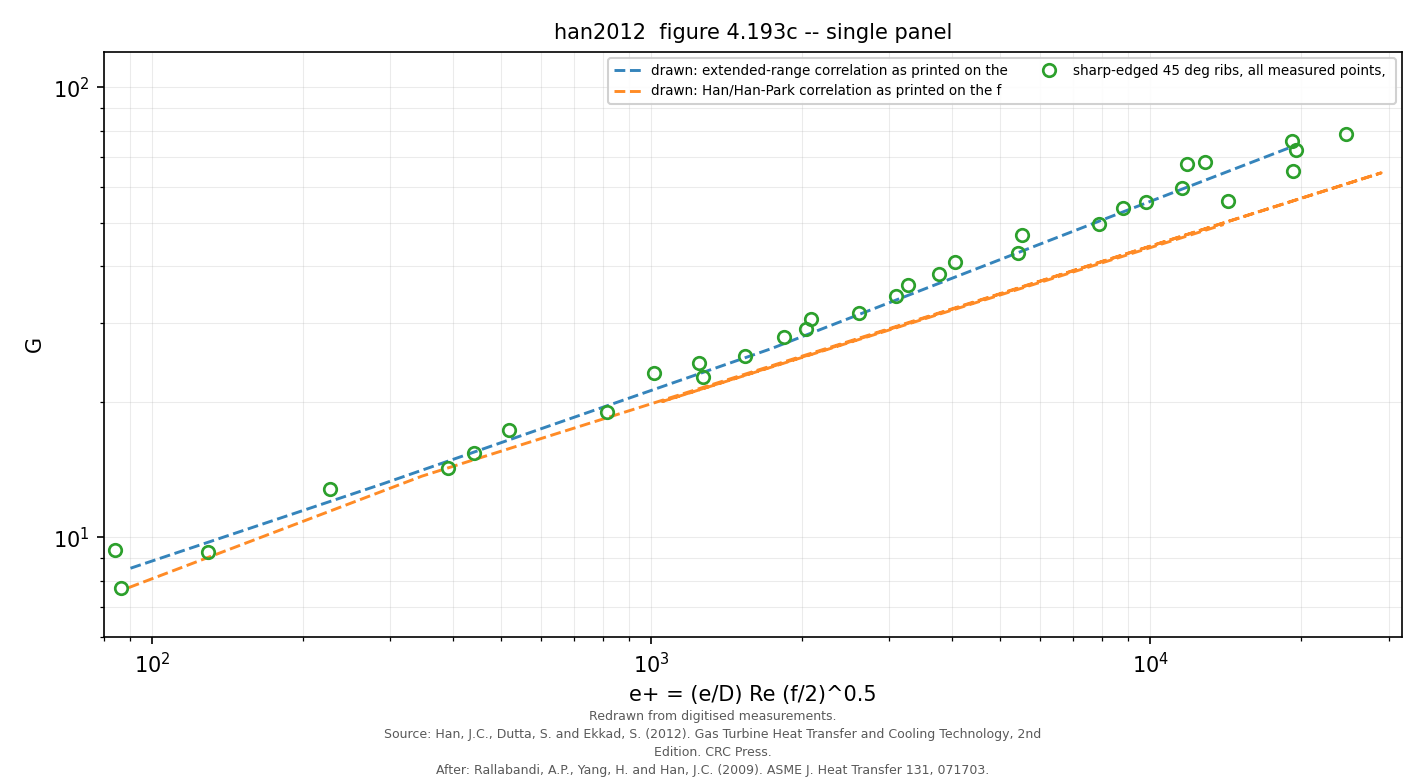
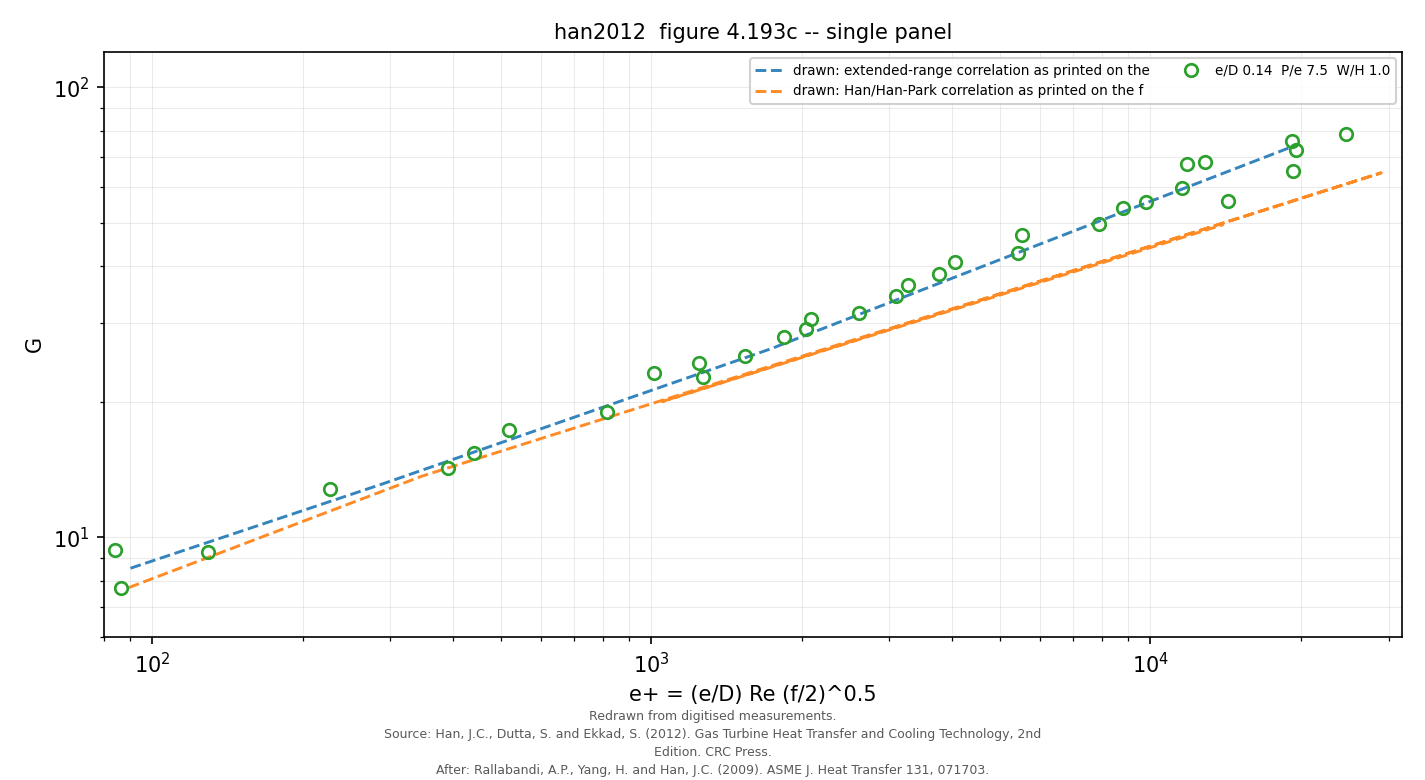
feat(cooling): implement rallabandi_2009_high_re, a second rib correlation set (#373)
Closes the last item on #334's actual remaining scope: the two other items
(GUI wiring, the two broken examples) turned out to already be done, in
#350 and #353 respectively -- the issue's own tracking comment was four
days stale, corrected on #334 and #339 before this work started.

rallabandi_2009_high_re() follows han_1988_orthogonal's exact structure:
same RibCorrelationSet fields, same evaluate_rib chain, same smooth
guards. It covers a genuinely different regime -- 45 deg sharp-edged ribs,
Re 30,000-400,000, an order of magnitude above han_1988_orthogonal's
10,000-60,000 -- selected explicitly, never blended, per the confirmed
extraction and the project's decision (#334) that users pick and define
correlations themselves, with provenance and validity visible, rather
than have the tool auto-switch on their behalf.

Scored against real data, not just hand-computed reference points: the
38-point unclassified cloud digitised from figure 4.193c (already filed
for #333) gives mean bias -2.8%, RMS 7.0%, independently reproducing the
extraction document's own comparison (0.994 mean, 6.9% RMS) through a
completely different computational path -- the full Re -> R -> f -> e+ ->
G chain via evaluate_rib, bisected to reach each digitised e+, rather than
the direct G(e+) evaluation the extraction doc used. Along the way,
corrected two stale scores fields on that figure's drawn correlation
lines (both were scored against han_1988_orthogonal and always silently
[…]

Changed region(s): [[0.4323, 0.0615, 0.9572, 0.1231]]

diff --git a/tests/test_rib_correlation.cpp b/tests/test_rib_correlation.cpp
@@ -7,6 +7,7 @@
 
 using combaero::cooling::evaluate_rib;
 using combaero::cooling::han_1988_orthogonal;
+using combaero::cooling::rallabandi_2009_high_re;
 using combaero::cooling::RibCorrelationSet;
 using combaero::cooling::RibGeometry;
 using combaero::cooling::validate_rib_set;
@@ -19,6 +20,15 @@ RibGeometry ref_geometry() {
   g.p_e = 10.0;
   g.W_H = 1.0;
   g.alpha_deg = 90.0;
+  return g;
+}
+
+RibGeometry rallabandi_ref_geometry() {
+  RibGeometry g;
+  g.e_D = 0.1;
+  g.p_e = 10.0;
+  g.W_H = 1.0;
+  g.alpha_deg = 45.0;
   return g;
 }
 
@@ -139,6 +149,106 @@ TEST(RibCorrelationTest, MalformedSetsAreRejected) {
   auto negative = han_1988_orthogonal();
   negative.C_R = -1.0;
   EXPECT_THROW(validate_rib_set(negative), std::invalid_argument);
+}
+
+// The numbers below are hand-computed from Eq. (17)/(18) as printed in
+// Rallabandi, Yang and Han (2009), independently of this implementation --
+// see validation/cooling/extractions/han_ribbed_high_re.md. R carries no e+
+// term here either, so it repeats across Re exactly as for han_1988_orthogonal.
+TEST(RibCorrelationTest, ReproducesTheConfirmedRallabandiExtraction) {
+  const auto set = rallabandi_2009_high_re();
+  const auto g = rallabandi_ref_geometry();
+
+  const auto lo = evaluate_rib(set, g, 30000.0);
+  EXPECT_NEAR(lo.R, 4.00939, 1e-4);
+  EXPECT_NEAR(lo.f, 0.06533, 1e-4);
+  EXPECT_NEAR(lo.e_plus, 542.20, 0.1);
+  EXPECT_NEAR(lo.G, 16.1350, 0.01);
+  EXPECT_NEAR(lo.St_r, 0.010235, 1e-5);
+
+  const auto hi = evaluate_rib(set, g, 400000.0);
+  EXPECT_NEAR(hi.e_plus, 7229.37, 0.1);
+  EXPECT_NEAR(hi.G, 47.8899, 0.01);
+  EXPECT_NEAR(hi.St_r, 0.003658, 1e-5);
+}
+
+// han_1988_orthogonal (90 deg) and rallabandi_2009_high_re (45 deg, sharp
+// ribs) are different papers a caller must choose between explicitly. Their
+// Reynolds-number bands actually OVERLAP (10e3-60e3 vs 30e3-400e3, sharing
+// 30e3-60e3) -- Re alone does not distinguish them, which is exactly why
+// there is no auto-switching on Re. What is genuinely disjoint is alpha and
+// e/D, confirmed here so a future edit cannot silently narrow either band
+// into the other's territory without this test noticing.
+TEST(RibCorrelationTest, TheTwoSetsDoNotOverlapInAlphaOrEd) {
+  const auto han = han_1988_orthogonal();
+  const auto rallabandi = rallabandi_2009_high_re();
+
+  EXPECT_EQ(han.valid_alpha.lo, 90.0);
+  EXPECT_EQ(han.valid_alpha.hi, 90.0);
+  EXPECT_EQ(rallabandi.valid_alpha.lo, 45.0);
+  EXPECT_EQ(rallabandi.valid_alpha.hi, 45.0);
+
+  // Rallabandi's study was a square channel only.
+  EXPECT_EQ(rallabandi.valid_WH.lo, 1.0);
+  EXPECT_EQ(rallabandi.valid_WH.hi, 1.0);
+
+  // e/D bands do not overlap: Han's is small ribs, Rallabandi's is large.
+  EXPECT_LT(han.valid_eD.hi, rallabandi.valid_eD.lo);
+
+  // Their Re bands DO overlap -- recorded as a fact, not a defect. See the
+  // comment above: this is why the two sets are named and chosen, not
+  // switched on Reynolds number.
+  EXPECT_GT(han.valid_Re.hi, rallabandi.valid_Re.lo);
+}
+
+// Reversing the flow must not change the magnitude, same reasoning as the
+// 90 deg set: a 45 deg parallel rib reversed is its mirror image.
+TEST(RibCorrelationTest, RallabandiReverseFlowIsSymmetricInMagnitude) {
+  const auto set = rallabandi_2009_high_re();
+  const auto g = rallabandi_ref_geometry();
+  const auto fwd = evaluate_rib(set, g, 100000.0);
+  const auto rev = evaluate_rib(set, g, -100000.0);
+
+  EXPECT_NEAR(fwd.G, rev.G, 1e-9);
+  EXPECT_NEAR(fwd.St_r, rev.St_r, 1e-9);
+  EXPECT_NEAR(fwd.e_plus, -rev.e_plus, 1e-6);
+}
+
+// Same guard discipline as the 90 deg set: every state a solver can probe
+// must return finite, positive numbers, never NaN or a complex result.
+TEST(RibCorrelationTest, RallabandiGuardsHoldForStatesTheSolverActuallyProbes) {
+  const auto set = rallabandi_2009_high_re();
+  const auto g = rallabandi_ref_geometry();
+  for (double Re : {-1e6, -1e4, -1.0, 0.0, 1e-12, 1.0, 1e8}) {
+    const auto r = evaluate_rib(set, g, Re);
+    EXPECT_TRUE(std::isfinite(r.f)) << "Re = " << Re;
+    EXPECT_TRUE(std::isfinite(r.G)) << "Re = " << Re;
+    EXPECT_TRUE(std::isfinite(r.St_r)) << "Re = " << Re;
+    EXPECT_TRUE(std::isfinite(r.dSt_dRe)) << "Re = " << Re;
+    EXPECT_GT(r.f, 0.0) << "Re = " << Re;
+    EXPECT_GT(r.St_r, 0.0) << "Re = " << Re;
+  }
+}
+
+// The analytic Stanton derivative must match a central difference through
+// this set's own guards too -- not assumed to inherit correctness from the
+// shared evaluate_rib code path just because han_1988_orthogonal's does.
+TEST(RibCorrelationTest, RallabandiStantonDerivativeMatchesCentralDifferences) {
+  const auto set = rallabandi_2009_high_re();
+  const auto g = rallabandi_ref_geometry();
+  for (double Re : {200000.0, 50000.0, 100.0, 10.0}) {
+    const double h = std::max(1e-6, std::abs(Re) * 1e-6);
+    const double fd = (evaluate_rib(set, g, Re + h).St_r -
+                       evaluate_rib(set, g, Re - h).St_r) /
+                      (2.0 * h);
+    const double analytic = evaluate_rib(set, g, Re).dSt_dRe;
+    const double scale = std::max({std::abs(fd), std::abs(analytic), 1e-14});
+    EXPECT_LT(std::abs(analytic - fd) / scale, 1e-5) << "Re = " << Re;
+  }
+}
+
+TEST(RibCorrelationTest, RallabandiSetPassesValidation) {
+  EXPECT_NO_THROW(validate_rib_set(rallabandi_2009_high_re()));
 }
 
 // The normaliser is data, not a convention: the same correlation written

diff --git a/src/rib_correlation.cpp b/src/rib_correlation.cpp
@@ -40,6 +40,65 @@ RibCorrelationSet han_1988_orthogonal() {
   return s;
 }
 
+RibCorrelationSet rallabandi_2009_high_re() {
+  RibCorrelationSet s;
+  s.name = "rallabandi_2009_high_re";
+  s.source = "Rallabandi, A.P., Yang, H. and Han, J.-C. (2009). ASME J. Heat "
+             "Transfer 131(7), 071703. Eq. (17)/(18)";
+  s.validity_source = s.source;
+  s.provenance = RibProvenance::Extracted;
+  // 45 deg square/sharp-edged ribs, same family as Han and Park's angled
+  // ribs: reversing the flow gives the mirror image, same magnitude in a
+  // symmetric duct. Not orthogonal (unlike han_1988_orthogonal), but still
+  // symmetric -- see the case A/B/C reverse-flow discussion on #334.
+  s.symmetric = true;
+
+  // R = 1.13 (e/D)^-0.17 (p/e)^0.38. Raw e/D and p/e, no /10 normaliser --
+  // unlike han_1988_orthogonal's R_pe, which divides by 10 because that is
+  // how Han's Eq. 4.16 is printed. Two different papers, two different
+  // normalisations; carrying han_1988_orthogonal's convention here would be
+  // silently wrong by (p/e)^0.38 evaluated at the wrong reference.
+  s.C_R = 1.13;
+  s.R_eD = {-0.17, 1.0};
+  s.R_pe = {0.38, 1.0};
+
+  // G = 1.24 (e/D)^0.014 (p/e)^-0.02 (e+)^0.42. The exponents on e/D and p/e
+  // are the resolved reading (extraction item 31): the textbook reprint at
+  // Fig. 4.193c prints 0.14 for the e/D exponent, a lost decimal place
+  // against the paper's own 0.014, worth 22% in G. Confirmed against the
+  // paper directly, not the reprint -- see han_ribbed_high_re.md, D4.
+  s.C_G = 1.24;
+  s.G_eD = {0.014, 1.0};
+  s.G_pe = {-0.02, 1.0};
+  s.G_eplus_exponent = 0.42;
+
+  s.valid_Re = {30000.0, 400000.0};
+  s.valid_eD = {0.1, 0.18};
+  s.valid_pe = {5.0, 10.0};
+  // Square channel only (W/H = 1) and 45 deg ribs only: both are how the
+  // source's own experiments were run, not modelling choices, so they are
+  // recorded as point ranges the same way han_1988_orthogonal pins alpha.
+  s.valid_WH = {1.0, 1.0};
+  s.valid_alpha = {45.0, 45.0};
+  // Derived, not separately stated: the e+ reached at the corners of the
+  // Re x e/D x p/e validity box above, through this set's own R -> f -> e+
+  // chain. The source's item-8 anchor (e+ = 18,000 at Re = 400K, e/D = 0.18)
+  // falls inside this box; it does not fix p/e, which this box does span.
+  s.valid_eplus = {542.0, 25340.0};
+  s.valid_Pr = 0.7;  // unchanged from Han; the source does not restate it
+
+  // accuracy_G is NOT an author-stated band, unlike han_1988_orthogonal's
+  // (Han's own "95% within X%" claims). Rallabandi et al. state no percentage
+  // accuracy for Eq. (18) in the extracted text. This is the RMS this
+  // project measured, of Eq. (18) itself against 38 digitised points from
+  // Fig. 4.193c (validation/cooling/data/han2012/fig4.193c_G_scatter.csv):
+  // mean pred/data 0.994, RMS 6.9% -- see han_ribbed_high_re.md, items 27-31.
+  // accuracy_R is left at 0 (unstated): no R data was digitised for this
+  // range, so there is nothing to measure it against.
+  s.accuracy_G = 0.069;
+  return s;
+}
+
 namespace {
 
 void require_positive_reference(const RibTerm &t, const std::string &field) {

diff --git a/include/rib_correlation.h b/include/rib_correlation.h
@@ -98,6 +98,22 @@ struct RibCorrelationSet {
 // validation/cooling/extractions/han_ribbed.md.
 RibCorrelationSet han_1988_orthogonal();
 
+// Rallabandi, A.P., Yang, H. and Han, J.-C. (2009), ASME J. Heat Transfer
+// 131(7), 071703, for 45 deg square/sharp-edged ribs in a square channel at
+// Reynolds numbers an order of magnitude above han_1988_orthogonal's range --
+// "typical of land-based turbines" per the source. A separate regime, not a
+// revision: different experiments, and per the source the correlations do
+// not agree with Han's in the extended range. Selected explicitly, never
+// blended -- see validation/cooling/extractions/han_ribbed_high_re.md.
+//
+// Sharp-edged ribs only. The source reports round-edged ribs at the same
+// conditions instead following Han's correlation, but "coincidentally" --
+// its own word, meaning reported as fortuitous rather than physically
+// grounded, so it is not encoded as a switch here. A caller with round-edged
+// ribs above this Reynolds range chooses the correlation directly, same as
+// any other set choice.
+RibCorrelationSet rallabandi_2009_high_re();
+
 // Geometry of the ribbed channel, as the correlation sees it.
 struct RibGeometry {
   double e_D = 0.0;        // rib height / hydraulic diameter

diff --git a/python/tests/test_cooling_validation.py b/python/tests/test_cooling_validation.py
@@ -78,8 +78,25 @@ def test_45deg_series_is_refused_not_scored(dataset) -> None:
 
     Scoring it produced a 26.7% bias that reads as model error when it is
     really the wrong correlation entirely. The refusal is the feature.
+
+    Built from a synthetic series (dataclasses.replace on a real one) rather
+    than pinned to a specific filed CSV: which series happen to carry
+    scores=han_1988_orthogonal at alpha=45 is metadata, and changes as
+    understanding improves -- fig4.193c_old_correlation_G_curve was scored
+    against han_1988_orthogonal via this exact refusal path once, then
+    re-labelled scores=null once a better reason (drawn line, no
+    angled-correlation set yet) was found. The mechanism under test should
+    not depend on any one series still holding that combination.
     """
-    recs = run_series(_series(dataset, "fig4.193c_old_correlation_G_curve"))
+    import dataclasses
+
+    series_45 = dataclasses.replace(
+        next(s for s in dataset if s.y_axis == "G"),
+        alpha_deg=45.0,
+        scores="han_1988_orthogonal",
+        geometry=None,
+    )
+    recs = run_series(series_45)
     assert all(r.predicted is None for r in recs)
     assert all("90-90 deg only" in (r.reason or "") for r in recs)
 

diff --git a/python/combaero/_core.cpp b/python/combaero/_core.cpp
@@ -152,6 +152,10 @@ PYBIND11_MODULE(_core, m) {
   m.def("han_1988_orthogonal", &combaero::cooling::han_1988_orthogonal,
         "Han (1988) 90 deg orthogonal ribs. Extracted and confirmed; see "
         "validation/cooling/extractions/han_ribbed.md.");
+  m.def("rallabandi_2009_high_re", &combaero::cooling::rallabandi_2009_high_re,
+        "Rallabandi, Yang and Han (2009) 45 deg sharp-edged ribs at high "
+        "Reynolds number. Extracted and confirmed; see "
+        "validation/cooling/extractions/han_ribbed_high_re.md.");
   m.def("validate_rib_set", &combaero::cooling::validate_rib_set,
         py::arg("correlation_set"),
         "Reject a set that cannot be evaluated. Hard errors, unlike the "

diff --git a/include/units_data.h b/include/units_data.h
@@ -111,6 +111,7 @@ inline constexpr Entry function_units[] = {
     // rib_correlation.h - Parametrised rib correlations
     // -------------------------------------------------------------------------
     {"han_1988_orthogonal", "-", "RibCorrelationSet"},
+    {"rallabandi_2009_high_re", "-", "RibCorrelationSet"},
     {"validate_rib_set", "correlation_set: RibCorrelationSet", "None"},
     {"evaluate_rib",
      "correlation_set: RibCorrelationSet, geometry: RibGeometry, Re: -",

diff --git a/python/combaero/__init__.py b/python/combaero/__init__.py
@@ -44,6 +44,7 @@ try:
         RibTerm,
         evaluate_rib,
         han_1988_orthogonal,
+        rallabandi_2009_high_re,
         validate_rib_set,
         AcousticMedium,
         AcousticMode,
@@ -828,6 +829,7 @@ __all__ = [
     "RibTerm",
     "evaluate_rib",
     "han_1988_orthogonal",
+    "rallabandi_2009_high_re",
     "validate_rib_set",
     "FlowSolution",
     "compressible",

diff --git a/validation/cooling/runner.py b/validation/cooling/runner.py
@@ -70,6 +70,7 @@ class Record:
 
 SETS = {
     "han_1988_orthogonal": cb.han_1988_orthogonal,
+    "rallabandi_2009_high_re": cb.rallabandi_2009_high_re,
 }
 
 

diff --git a/validation/cooling/extractions/han_ribbed_high_re.md b/validation/cooling/extractions/han_ribbed_high_re.md
@@ -1,6 +1,6 @@
 # Extraction: rib correlations at high Reynolds number
 
-**Status: CONFIRMED -- reviewed 2026-09-14.**
+**Status: CONFIRMED -- reviewed 2026-09-14. IMPLEMENTED 2026-09-20.**
 
 Every item is resolved against the primary source and the reviewer has signed
 off. The correlations below come from **the paper itself**, not from the
@@ -419,6 +419,7 @@ RMS. The textbook's printed form remains the outlier.
 
 | date | reviewer | outcome |
 |---|---|---|
+| 2026-09-20 | Claude | **Implemented** as `combaero.rallabandi_2009_high_re()`, following the same `RibCorrelationSet`/`evaluate_rib` structure as `han_1988_orthogonal`. Scored against the 38-point unclassified cloud from Figure 4.193c (already digitised for #333): mean bias -2.8%, RMS 7.0%, reproducing this document's own comparison (mean pred/data 0.994, RMS 6.9%) through a completely different computational path -- the full `Re -> R -> f -> e+ -> G` chain via `evaluate_rib`, bisected to reach each digitised `e+`, rather than the direct `G(e+)` evaluation used above. Scored with a representative `e_D=0.14, p_e=7.5` (the cloud's own midpoints), justified by the paper's own text that `G` does not vary much with either. `valid_alpha` and `valid_WH` are recorded as point ranges (45 deg, `W/H=1`), matching how the source's own experiments were run rather than a modelling choice. Round-edged ribs are deliberately NOT wired as an automatic fallback to Han's correlation: the source calls that agreement "coincidental", and the project's own decision (per #334) is that users pick and define correlations explicitly, with provenance and validity visible, rather than have the tool switch on their behalf. |
 | 2026-09-10 | extracted by Claude | UNCONFIRMED and INCOMPLETE. Surrounding text extracted; Figure 4.193 needed before anything here can be used |
 | 2026-09-13 | reviewer | supplied Figure 4.193 (p. 513) and Figure 4.192. Correlations now extracted as items 12-19 |
 | 2026-09-13 | reviewer | read the Fig. 4.193c exponents as `(p/e/10)^0.2` (old) and `(p/e)^-0.031` (new), both flagged as partly guesswork. The old-correlation exponent is settled at `0.1` by the confirmed p. 377 items; the new one is recorded as item 21, bounded at 1.6-2.3% |

diff --git a/docs/API_CPP.md b/docs/API_CPP.md
@@ -430,17 +430,23 @@ ChannelResult channel_smooth(double T, double P, const std::vector<double>& X,
 //
 // R carries no e+ term by construction, so f is independent of Reynolds
 // number and df/d(mdot) is identically zero for this family.
-RibCorrelationSet han_1988_orthogonal();
+//
+// Named sets, selected explicitly -- there is no auto-switching between
+// them, since they cover disjoint regimes rather than one being an update
+// of the other:
+RibCorrelationSet han_1988_orthogonal();       // 90 deg, Re 10e3-60e3
+RibCorrelationSet rallabandi_2009_high_re();   // 45 deg sharp ribs, Re 30e3-400e3
 void validate_rib_set(const RibCorrelationSet& set);   // throws on a bad set
 RibResult evaluate_rib(const RibCorrelationSet& set,
                        const RibGeometry& geom, double Re);
 // evaluate_rib never throws: Re may be negative or zero and the guards are
 // smooth through both, because the solver probes states that are not physical.
 
-// Enhanced surfaces (ribbed, dimpled, pin-fin, impingement) were removed in
-// 0.7.0: their correlations could not be traced to their cited sources. A
-// provenanced rib correlation is tracked in issue #334; see issue #339 for
-// the rebuild. channel_smooth is unaffected.
+// Enhanced surfaces removed in 0.7.0 for unprovenanced correlations (issue
+// #339). Ribbed is re-added on han_1988_orthogonal / rallabandi_2009_high_re
+// above, wired through RibbedModel (components.py) into the GUI and network
+// solver. Dimpled, pin-fin and impingement remain removed, tracked
+// individually (#335-338).
 ```
 
 ### Wall Coupling

diff --git a/CHANGELOG.md b/CHANGELOG.md
@@ -9,6 +9,25 @@ and this project adheres to [Semantic Versioning](https://semver.org/spec/v2.0.0
 
 ### Added
 
+- **`rallabandi_2009_high_re()`, a second rib correlation set** for 45 deg
+  sharp-edged ribs at Reynolds numbers an order of magnitude above
+  `han_1988_orthogonal`'s range (30,000-400,000 vs 10,000-60,000). Named
+  and user-selected, same as the existing set -- there is no
+  auto-switching, matching #334's decision that users pick and define
+  correlations explicitly, with provenance and validity visible.
+
+  Scored against the 38-point digitised cloud from figure 4.193c: mean
+  bias -2.8%, RMS 7.0%, independently reproducing the extraction
+  document's own comparison (0.994 mean, 6.9% RMS) through the full
+  `Re -> R -> f -> e+ -> G` chain rather than a direct `G(e+)` evaluation.
+
+  Round-edged ribs at this Reynolds range are reported by the source to
+  instead follow `han_1988_orthogonal`'s correlation, but the source
+  calls that agreement "coincidental" rather than physically grounded, so
+  it is not wired as an automatic fallback -- a caller with round-edged
+  ribs chooses the correlation directly, the same as any other set
+  choice.
+
 - **Figure 4.48 digitised**: narrow-aspect-ratio channels (Eq. 4.19), both
   panels, plus a reference curve labelled `[Ref. 3]` and its error bars --
   16 series, 111 points.

diff --git a/docs/API_PYTHON.md b/docs/API_PYTHON.md
@@ -1081,6 +1081,24 @@ r.R, r.f, r.e_plus, r.G, r.St_r       # 3.2000, 0.04576, 71.1, 12.21, 0.00968
 r.extrapolated                        # outside the set's advisory validity
 ```
 
+**Two named sets, chosen explicitly.** They cover disjoint Reynolds-number
+regimes reported by different papers, not one superseding the other -- so
+there is no auto-switching between them:
+
+```python
+s90 = cb.han_1988_orthogonal()        # 90 deg, Re 10,000-60,000
+s45 = cb.rallabandi_2009_high_re()    # 45 deg sharp ribs, Re 30,000-400,000
+
+g = cb.RibGeometry(e_D=0.14, p_e=7.5, W_H=1.0, alpha_deg=45.0)
+r = cb.evaluate_rib(s45, g, Re=100_000)
+r.G                                    # 35.40 -- see han_ribbed_high_re.md
+```
+
+`rallabandi_2009_high_re` is 45 deg and sharp-edged ribs only: the source
+reports round-edged ribs at the same conditions instead following Han's
+correlation, but calls the agreement "coincidental" rather than physically
+grounded, so it is not wired as an automatic edge-profile switch.
+
 **Supply your own.** Real hardware needs it -- no published correlation is
 precise enough for a specific rig:
 
